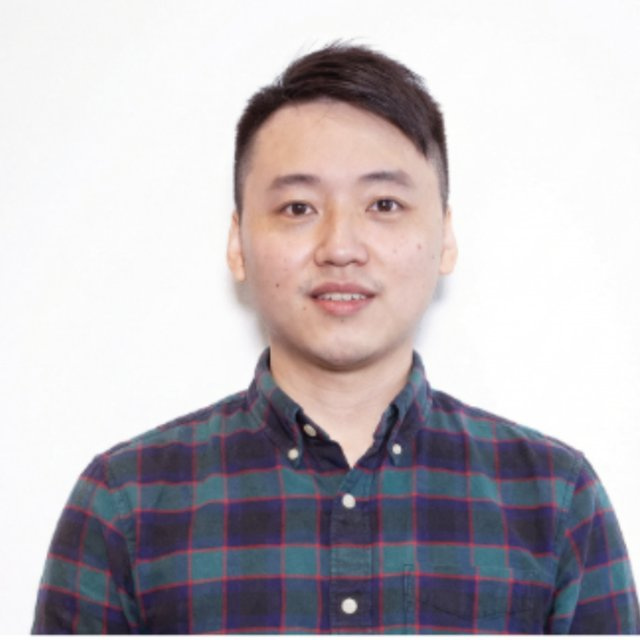
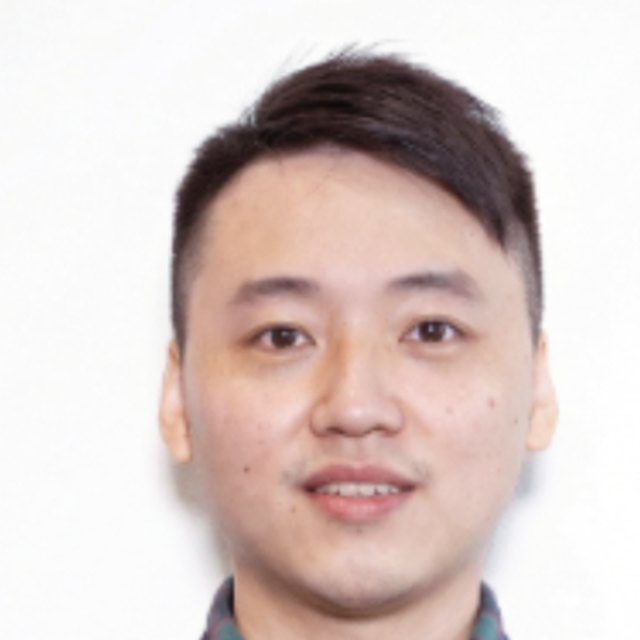
Add files via upload

diff --git a/styles.css b/styles.css
@@ -414,12 +414,15 @@ section { padding: 88px 0; position: relative; }
   color: #a5b4fc;
 }
 
-/* ---------- Profile photo card ---------- */
+/* ---------- Profile photo chip ---------- */
 .profile-card {
   background: var(--surface);
   border: 1px solid var(--border-soft);
   border-radius: var(--radius);
-  padding: 14px;
+  padding: 16px 18px;
+  display: flex;
+  align-items: center;
+  gap: 16px;
   transition: border-color 0.25s, transform 0.25s;
 }
 .profile-card:hover {
@@ -427,20 +430,30 @@ section { padding: 88px 0; position: relative; }
   transform: translateY(-3px);
 }
 .profile-card img {
-  width: 100%;
-  aspect-ratio: 1;
+  width: 96px;
+  height: 96px;
+  min-width: 96px;
+  border-radius: 50%;
   object-fit: cover;
-  object-position: center top;
-  border-radius: 12px;
-  border: 1px solid var(--border-soft);
+  object-position: center 18%;
+  border: 2px solid rgba(56, 189, 248, 0.45);
+  box-shadow: 0 6px 20px rgba(2, 6, 18, 0.5);
+  transition: transform 0.25s;
 }
-.profile-card .pc-cap { padding: 14px 6px 6px; }
-.profile-card .pc-cap strong { display: block; font-size: 1rem; font-weight: 700; }
+.profile-card:hover img { transform: scale(1.05); }
+.profile-card .pc-cap { min-width: 0; }
+.profile-card .pc-cap strong {
+  display: block;
+  font-size: 1.02rem;
+  font-weight: 700;
+  line-height: 1.3;
+}
 .profile-card .pc-cap span {
   display: block;
   color: var(--muted);
-  font-size: 0.85rem;
-  margin-top: 3px;
+  font-size: 0.84rem;
+  margin-top: 4px;
+  line-height: 1.45;
 }
 
 /* ============================================================
